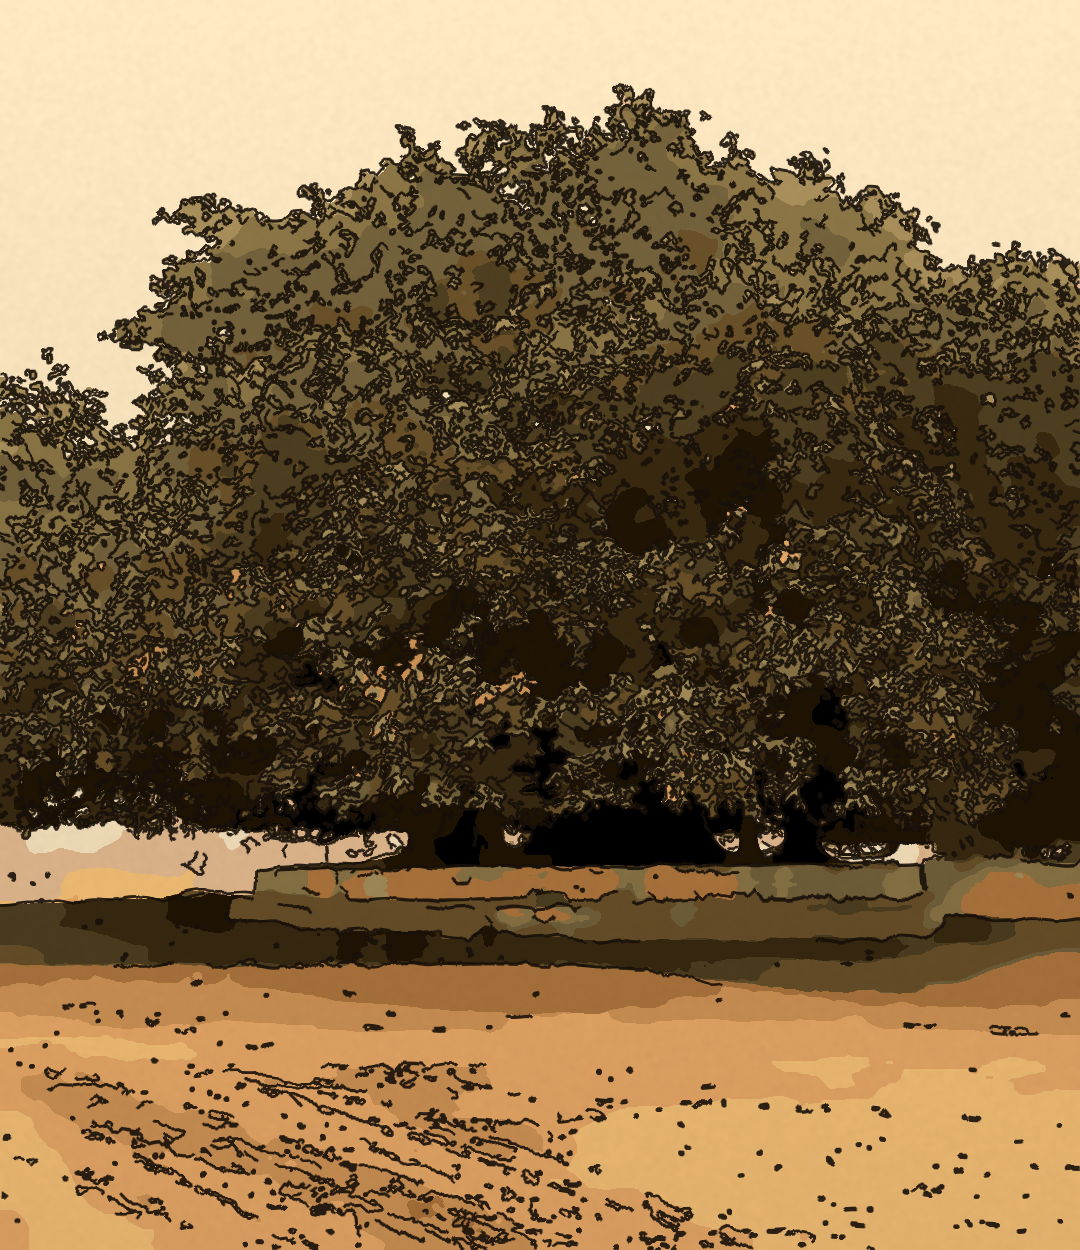
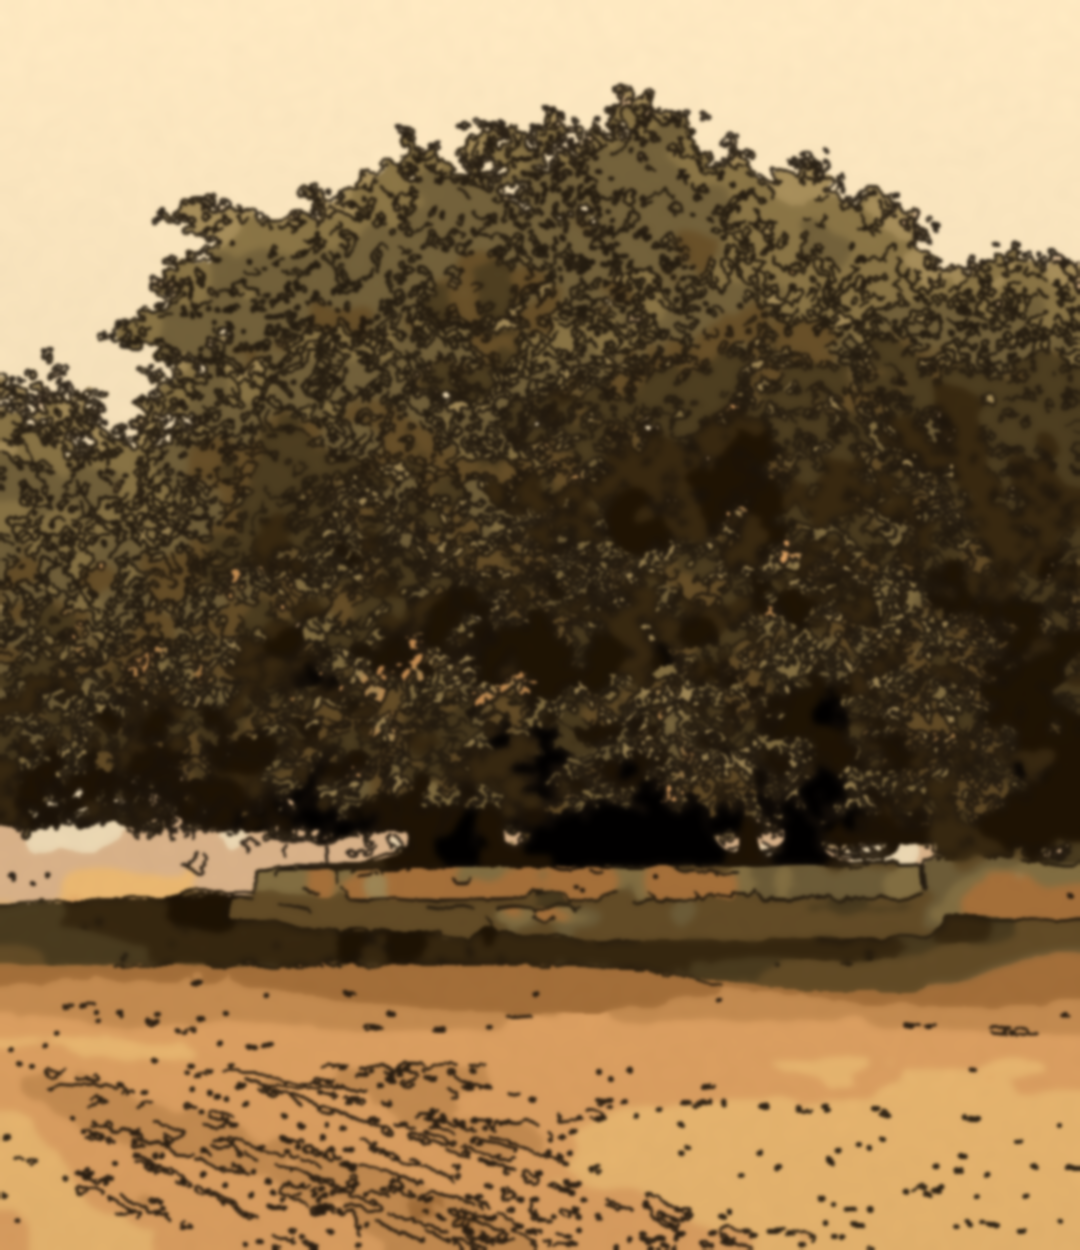
Shadowless village Part 2: dip at the cut to the tree and a softer tree backdrop (flicker fix)

diff --git a/Remotion/src/shadow2/Part2.tsx b/Remotion/src/shadow2/Part2.tsx
@@ -24,7 +24,7 @@ type Place = "lane" | "barn" | "alley" | "tree";
 const BARN_AT = () => ls(6);
 const ALLEY_AT = () => mid(9, 0.45);
 const TREE_AT = () => mid(12, 0.5);
-const placeAt = (g: number): Place => (g < BARN_AT() - 6 ? "lane" : g < ALLEY_AT() ? "barn" : g < TREE_AT() ? "alley" : "tree");
+const placeAt = (g: number): Place => (g < BARN_AT() - 6 ? "lane" : g < ALLEY_AT() ? "barn" : g < TREE_AT() - 6 ? "alley" : "tree");
 const BG: Record<Place, { src: string; edge: string; desat: boolean }> = {
   lane: { src: "shadow1/bg_lane.png", edge: "#95754d", desat: true },
   barn: { src: "shadow1/bg_barn.png", edge: "#1a1f29", desat: false },
@@ -187,7 +187,7 @@ export const Part2: React.FC<{ g?: number }> = ({ g: gOverride }) => {
   const t = g;
   const place = placeAt(g + (g < BARN_AT() ? 0 : 0));
   // a dip to black at the time jump (hook -> meal) and at the move into the granary; hard cuts elsewhere (white flash into the glare)
-  const edges = [-999, ls(2) - 6, BARN_AT() - 6, 99999];
+  const edges = [-999, ls(2) - 6, BARN_AT() - 6, TREE_AT() - 6, 99999];
   const dark = 1 - Math.max(...edges.slice(0, -1).map((e, i) => dipOf(g, e, edges[i + 1])));
   const flash = g >= ALLEY_AT() && g < ALLEY_AT() + 10 ? 1 - (g - ALLEY_AT()) / 10 : 0;
   const insert = g >= ls(4) && g < ls(5);
@@ -254,7 +254,7 @@ export const Part2: React.FC<{ g?: number }> = ({ g: gOverride }) => {
   // ---------------------------------------------------------------- camera
   const shots = SHOTS();
   let cam = { x: 540, y: 1000, z: 1.2 };
-  const cur = shots.find(([a, b]) => g >= (a === BARN_AT() || a === ls(2) ? a - 6 : a) && g < b);
+  const cur = shots.find(([a, b]) => g >= (a === BARN_AT() || a === ls(2) || a === TREE_AT() ? a - 6 : a) && g < b);
   if (cur) {
     const [a, b, c0, c1] = cur;
     const k = smooth(clamp01((g - a) / Math.max(1, b - a)));

diff --git a/series-animation/references/feedback-log.md b/series-animation/references/feedback-log.md
@@ -92,3 +92,4 @@ Newest at the bottom. One line per piece of feedback: what the user said, what w
 - 2026-10-29 (Part 1, fifth round): user: the washing beat switched to another character mid-line; fix everything still weak; check everything again; end with a question for viewers to answer; camera cuts sometimes happen for no reason and make viewers dizzy, change angle only when the story calls for it (do not force it). Changes: the same woman stays through line 8 (lifts the cloth, carries it into the sun, stands sweating); shot list rebuilt with cuts only on beats (new line, an action, a point of view), one shot per line otherwise, no camera tilts; the place and the camera now switch together at the darkest frame of the dip (a stray frame of the pier seen through the lane camera was found in the proxy); clapper hit lands on the word "ไม้เคาะ"; villagers turn toward your shadow in the final stare; softer seam between photo and drawn ground; outro asks "คุณคิดว่าชาวบ้านอยากได้อะไรจากเงาของคุณ? คอมเมนต์บอกหน่อย" before the teaser (outro 5.5 s, total 73.5 s). Standing rules: cut on story beats, not on a timer; end every part with a question for the comments.
 - 2026-10-29 (Part 2): user wanted side dishes on the table and a visible rice texture (white rice blended into the white plate). Added enamel plates with a blue rim, rice mounds and top-down rice with grain strokes and a shaded side, and side dishes (red curry, stir-fried greens, fried fish) on the table and in the close-up. Standing rule: food and props must read at a glance; give white food a contrasting dish and texture.
 - 2026-10-29: user gave a reference for a frightened face (white eyes with tiny pupils, furrowed brows, open dark mouth, U-shaped sweat marks). Added Traveller mood "scared"; user rejected the pale skin, so the skin stays the normal colour. Preview: ShadowStyle which=scared.
+- 2026-10-29 (Part 2): user saw a flicker at the cut to the tree (~0:56). Cause: a hard cut from a low-detail frame to a very high-detail backdrop plus fine leaf edges shimmering under the slow zoom. Fix: dip to black over the cut like the other place changes (place and camera switch at the darkest frame) and soften the tree backdrop. Rule: every place change gets the short dip; backdrops with fine foliage must be blurred.
